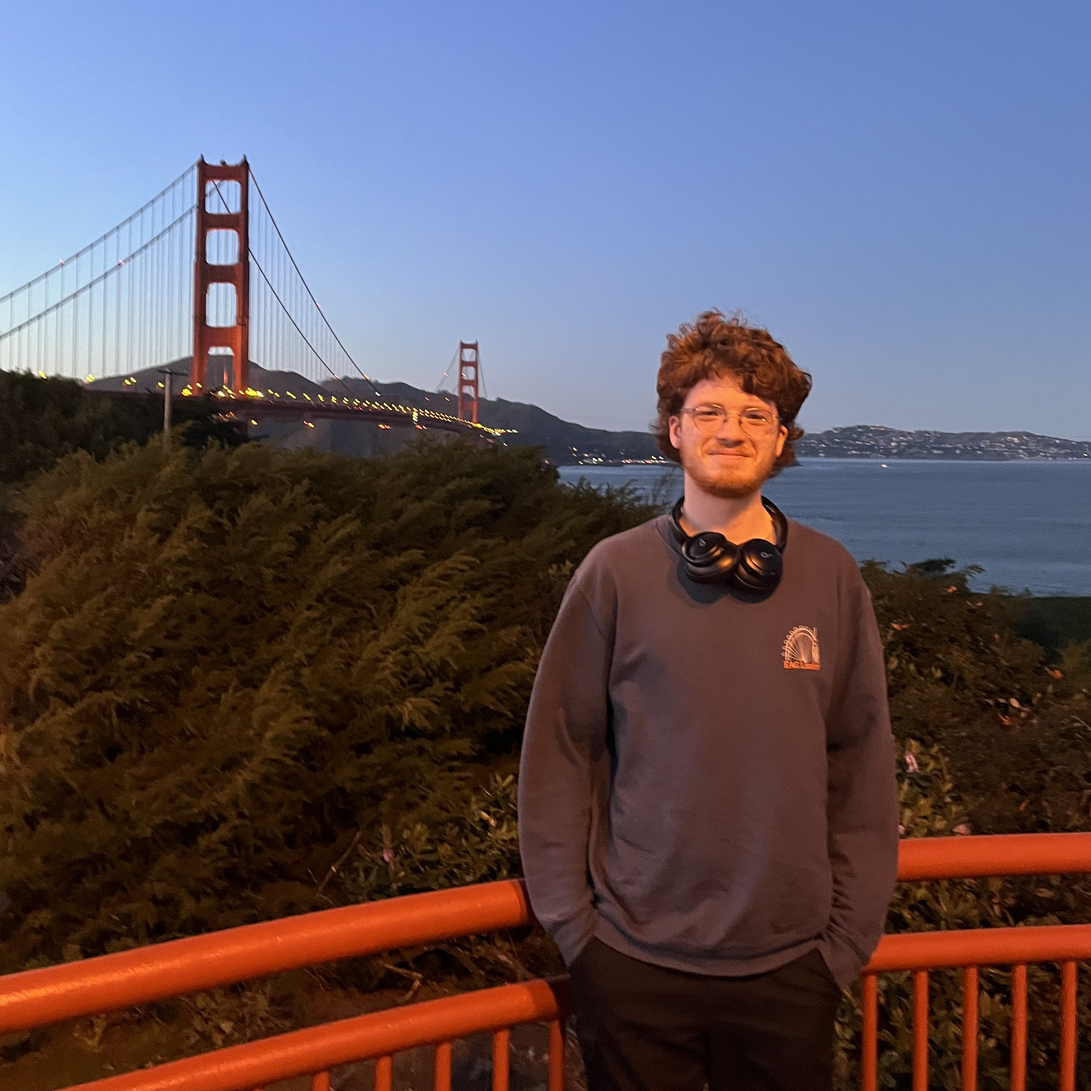
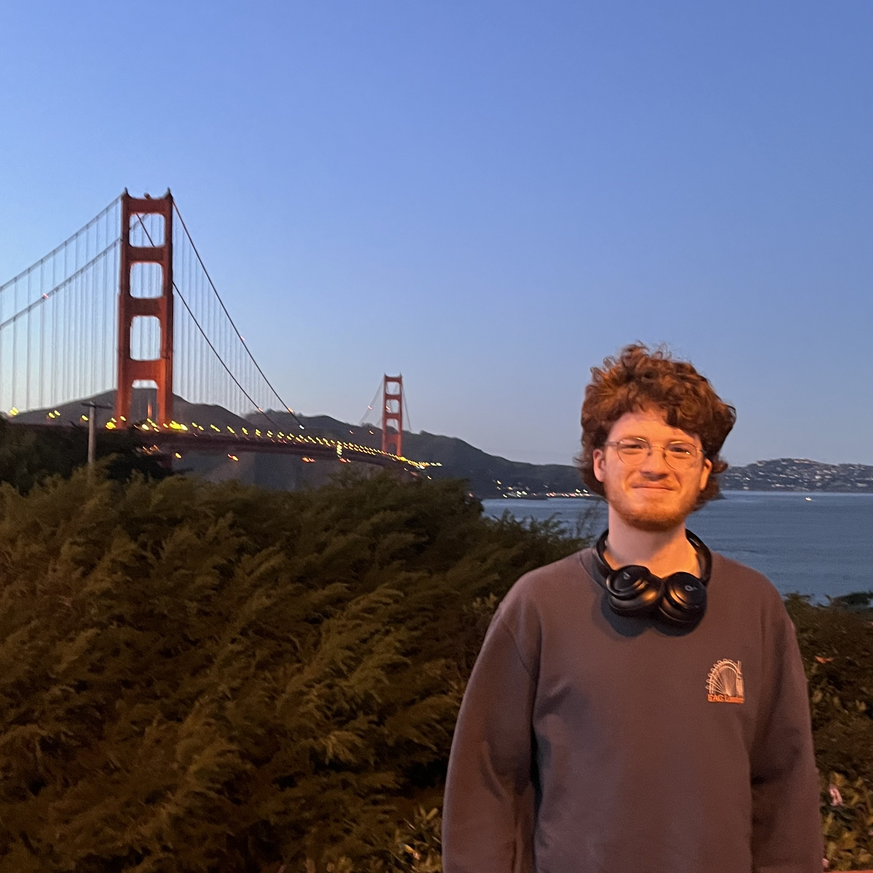
bosh

diff --git a/index.html b/index.html
@@ -12,7 +12,7 @@
 <body>
     <div id="content">
         <h1><a href="index.html">Aidan Ewart</a></h1>
-        <p><em>Updated 26/01/2024</em></p>
+        <p><em>Updated 18/02/2024</em></p>
         <hr>
         <div class="flex-profile">
 <div class="profile-pic"><img src="assets/img/profile.jpg"></div>
@@ -24,6 +24,7 @@
   <li><i class="fas fa-envelope"></i><a href="mailto:aidanprattewart@gmail.com">aidanprattewart@gmail.com</a></li>
   <li><i class="fas fa-file-text"></i><a href="assets/docs/CV.pdf">Resume</a></li>
   <li><i class="fas fa-graduation-cap"></i><a href="https://scholar.google.com/citations?user=QjcaY50AAAAJ&hl=en">Google Scholar</a></li>
+  <li><i class="fab fa-linkedin"></i><a href="https://www.linkedin.com/in/aidan-ewart-648a30204/">LinkedIn</a></li>
 </ul>
 </div>
 </div>

diff --git a/assets/main.css b/assets/main.css
@@ -2,17 +2,9 @@
 
 body {
     margin: 0 1rem;
-    padding: 0 0 50px 0;
-    min-height: calc(100vh - 100px);
+    padding: 0 0 2rem 0;
+    min-height: calc(100vh - 1rem);
     position: relative;
-}
-
-footer {
-    height: 50px;
-    position: absolute;
-    bottom: 0;
-    left: 1.25%;
-    width: 97.5%;
 }
 
 #content {
@@ -61,7 +53,7 @@ img:hover {
 
 .profile-pic {
     margin: 1rem;
-    flex: 0 1 25%;
+    flex: 0 1 30%;
     min-width: 10rem;
 }
 
